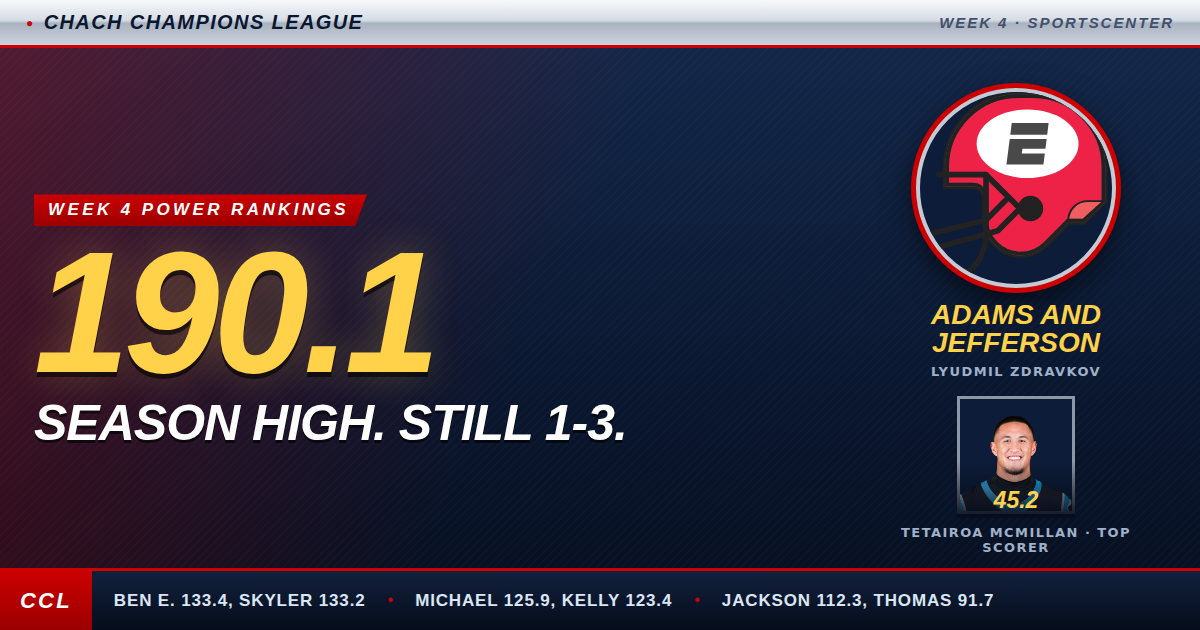
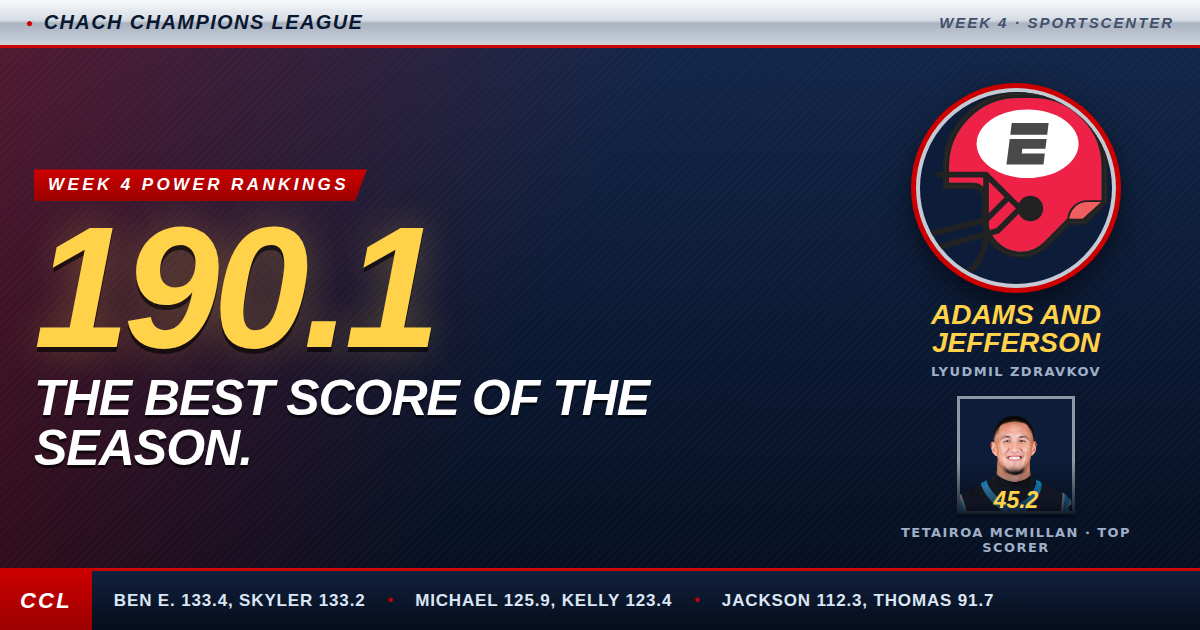
Week 4: deeper analysis

Changed region(s): [[0.0308, 0.2413, 0.555, 0.754]]

diff --git a/docs/weeks/week-4.html b/docs/weeks/week-4.html
@@ -5,18 +5,18 @@
 <meta name="viewport" content="width=device-width, initial-scale=1, viewport-fit=cover" />
 <meta name="theme-name" content="SportsCenter" />
 <title>Week 4: SportsCenter</title>
-<meta name="description" content="The highest score of the season, a game decided by two tenths of a point, and Drake Maye Sucks Ass winning on a big day from Drake Maye." />
+<meta name="description" content="The best score of the season, a clear top three, and the schedule deciding more games than anyone would like." />
 <meta property="og:type" content="article" />
 <meta property="og:site_name" content="Chach Champions League" />
 <meta property="og:url" content="https://scoducks8.github.io/fantasy-power-rankings/weeks/week-4.html" />
 <meta property="og:title" content="Week 4: Adams and Jefferson hang 190" />
-<meta property="og:description" content="The highest score of the season, a game decided by two tenths of a point, and Drake Maye Sucks Ass winning on a big day from Drake Maye." />
+<meta property="og:description" content="The best score of the season, a clear top three, and the schedule deciding more games than anyone would like." />
 <meta property="og:image" content="https://scoducks8.github.io/fantasy-power-rankings/og-week-4.png" />
 <meta property="og:image:width" content="1200" />
 <meta property="og:image:height" content="630" />
 <meta name="twitter:card" content="summary_large_image" />
 <meta name="twitter:title" content="Week 4: Adams and Jefferson hang 190" />
-<meta name="twitter:description" content="The highest score of the season, a game decided by two tenths of a point, and Drake Maye Sucks Ass winning on a big day from Drake Maye." />
+<meta name="twitter:description" content="The best score of the season, a clear top three, and the schedule deciding more games than anyone would like." />
 <meta name="twitter:image" content="https://scoducks8.github.io/fantasy-power-rankings/og-week-4.png" />
 <style>/* ------------------------------------------------------------------
    SKIN: sportscenter — ESPN broadcast graphics, roughly 2003-2008.
@@ -319,7 +319,7 @@ section{scroll-margin-top:64px}
   <div>
     <p class="hk">Week 4 · SportsCenter</p>
     <h1>Adams and Jefferson hang 190 on the league</h1>
-    <p class="hs">Tetairoa McMillan goes for 45.2, Lyudmil puts up 190.06, the biggest number anybody has posted this season, and he is still 1-3. Ben E. survives by two tenths of a point to stay perfect. Team Galakrond scores 140 and loses by fifty. A team called Drake Maye Sucks Ass gets 26.2 out of Drake Maye. And Bingo Night posts the lowest score in the league for the second week in a row. Week 4 had everything.</p>
+    <p class="hs">Four weeks in, the league has a clear top three. Ben E., michael and CeeDeez Nutz are the three highest scorers, all averaging 138 or better, and a combined 106-26 when you line them up against every team every week. Behind them, the schedule is doing a lot of the talking. Team Galakrond has scored enough to be 2-2 and is 0-4 after facing 623 points, by far the most in the league. Bingo Night has scored like a half-win team and is 2-2. And Lyudmil just posted 190.06, the best single week anybody has had this season.</p>
   </div>
   <figure>
     <img src="../assets/players/4685472.png" alt="Tetairoa McMillan" />
@@ -331,7 +331,7 @@ section{scroll-margin-top:64px}
 <div class="wrap">
   <section id="scores">
     <p class="sk">The slate</p><h2>Week 4 results</h2>
-    <p class="sl">Closest game first. Two tenths of a point decided the top one. Gold border means it came down to less than ten.</p>
+    <p class="sl">Closest game first. Ben E. stayed perfect by two tenths of a point. Gold border means it came down to less than ten.</p>
     <div class="strip">
         <div class="res tight">
           <div class="rr "><span>CeeDeez Nutz</span><b>133.2</b></div>
@@ -363,7 +363,7 @@ section{scroll-margin-top:64px}
 
   <section id="teams">
     <p class="sk">Power rankings</p><h2>Every team, ranked</h2>
-    <p class="sl">Four weeks in, and the record now carries the most weight. The color bar under each team splits the week&#x27;s points by position.</p>
+    <p class="sl">Record carries the most weight now, with recent form, scoring and luck behind it. Where a blurb mentions expected wins, that is a team&#x27;s record against the whole league each week, scaled to four games: what its scoring has earned, regardless of schedule. The color bar splits this week&#x27;s points by position.</p>
     <div class="ws">
       <article class="w lead">
         <header>
@@ -378,7 +378,7 @@ section{scroll-margin-top:64px}
         <div class="wmain">
           <figure><img src="../assets/players/4241416.png" alt="" loading="lazy">
             <figcaption><b>25.9</b><span>Chuba Hubbard</span></figcaption></figure>
-          <p>Two tenths of a point. Ben&#x27;s Brilliant Team 133.38, CeeDeez Nutz 133.18, the closest game this league has played all season. Chuba Hubbard leads the way with 25.9 and Brock Bowers adds 20.6 from the tight end spot. Ben E. is 4-0, the only unbeaten team left. That is the good news. The bad news, for everybody else, is that he knows it.</p>
+          <p>The only unbeaten team, and the record holds up. Ben E. is 37-7 against the whole league over four weeks, scoring between 131 and 151 every week. The engine is the receiver room, about 22 points a week above league average, with Jaxon Smith-Njigba at 116.7 on the season. The backfield is the thin spot, about four a week below average. Expected wins are 3.36, so there is a little luck in the 4-0, most visibly this week&#x27;s 0.2 point escape against CeeDeez Nutz. Still a legitimate first-place team.</p>
         </div>
       </article>      <article class="w">
         <header>
@@ -393,7 +393,7 @@ section{scroll-margin-top:64px}
         <div class="wmain">
           <figure><img src="../assets/players/4361370.png" alt="" loading="lazy">
             <figcaption><b>19.6</b><span>Chris Olave</span></figcaption></figure>
-          <p>Ugly, and it counts. michael gets past Team evil by two and a half with 125.92, fifteen under projection. Chris Olave leads the team with 19.6 and nobody on the roster cracks twenty. Still a win. He moves back up to second, and he has more total points than anybody in the league, which he would like you to know.</p>
+          <p>michael leads the league in total points at 574.6 and is 36-8 against the field. Jahmyr Gibbs (116.0 on the season) and Josh Allen (112.5) are the best quarterback and backfield pairing in the league, about 10 a week above average at QB and 19 at RB. Receivers are average and the tight end spot is below it. The real story is the bench: 319.2 points left there across four weeks, about 80 a week and the most in the league by a distance. This week&#x27;s 125.9 was his season low, and he still won.</p>
         </div>
       </article>      <article class="w">
         <header>
@@ -408,7 +408,7 @@ section{scroll-margin-top:64px}
         <div class="wmain">
           <figure><img src="../assets/players/4241389.png" alt="" loading="lazy">
             <figcaption><b>41.3</b><span>CeeDee Lamb</span></figcaption></figure>
-          <p>CeeDee Lamb goes for 41.3 for the team named after him, and it is not enough. Lost by two tenths of a point. Now the part that hurts: 88.7 points sat on the bench. Two tenths. First loss of the season, down a spot to third, and somewhere skyler is still staring at that lineup.</p>
+          <p>The most consistent team in the league: 138.7, 147.3, 133.6, 133.2. CeeDee Lamb went for 41.3, the second-best individual score of the week, and the receiver room runs about 22 a week above average, level with Ben E.&#x27;s for best in the league. The backfield is the weakness, about 14 a week below average. The one loss came by 0.2 with 88.7 points on the bench. Expected wins of 3.00 match the record exactly. This team is right where it should be.</p>
         </div>
       </article>      <article class="w">
         <header>
@@ -423,7 +423,7 @@ section{scroll-margin-top:64px}
         <div class="wmain">
           <figure><img src="../assets/players/4361579.png" alt="" loading="lazy">
             <figcaption><b>31.3</b><span>Javonte Williams</span></figcaption></figure>
-          <p>Back on track. Javonte Williams runs for 31.3, Puka Nacua adds 27.7 out of the flex, and Dake Bates puts 131.38 on Cortisol Spyke Weeks for a 38.4 point win. Second straight win, up two spots to fourth at 3-1. Turns out the opener was not a fluke.</p>
+          <p>The most volatile team in the league: 177.9, 56.5, 96.5, 131.4. Javonte Williams (81.8 on the season) and Ashton Jeanty (73.9) make the backfield about 12 a week above average. Receivers run about 15 below, though Puka Nacua&#x27;s 27.7 this week helps. Dake has also had the gentlest schedule, facing the fewest points in the league at 386.1, which is how a team that is 23-21 against the field gets to 3-1. The 462.2 total points rank seventh.</p>
         </div>
       </article>      <article class="w">
         <header>
@@ -438,7 +438,7 @@ section{scroll-margin-top:64px}
         <div class="wmain">
           <figure><img src="../assets/players/4430807.png" alt="" loading="lazy">
             <figcaption><b>27.7</b><span>Bijan Robinson</span></figcaption></figure>
-          <p>Two receivers, two zeros. Rashee Rice: zero. Jalen Coker: zero. Bijan Robinson does his part with 27.7, but 96.02 is not getting it done, and it hands the roadrunners their first win of the season. Nineteen under projection. Down a spot to fifth at 2-2. Rough Sunday at the Purdy household.</p>
+          <p>A mid-pack team with a clear shape. Bijan Robinson (105.4 on the season) and Brock Purdy (100.5) carry the scoring, and Trey McBride has the tight end spot about seven a week above average. The receivers are the problem, about 15 a week below average, and this week they produced two zeros: Rashee Rice and Jalen Coker. Expected wins of 2.18 match the 2-2 record. Fix the receiver room and this is a top-four team.</p>
         </div>
       </article>      <article class="w">
         <header>
@@ -453,7 +453,7 @@ section{scroll-margin-top:64px}
         <div class="wmain">
           <figure><img src="../assets/players/4685472.png" alt="" loading="lazy">
             <figcaption><b>45.2</b><span>Tetairoa McMillan</span></figcaption></figure>
-          <p>One ninety. Tetairoa McMillan goes for 45.2, the best individual number in the league this week, and Kyren Williams adds 36.7. 190.06 is the highest score anyone has posted this season, 74.6 over projection, eleven and oh against the field. Team Galakrond put up 140 and got buried by fifty. Lyudmil is finally in the win column at 1-3 and jumps three spots. Davante Adams, half the team name, chips in 7.2.</p>
+          <p>190.06. The best single-week score in the league this season, 12.2 clear of Dake&#x27;s week-one 177.86. Tetairoa McMillan&#x27;s 45.2 was the top individual score of the week, Kyren Williams added 36.7, and the receivers and backfield combined for 128.6. Lyudmil is fourth in total points at 521.0 and exactly 22-22 against the field, which usually means two wins, not one. The difference is the schedule: 544.3 points faced, second-most in the league. Quarterback is still unsettled, three different starters in four weeks, with Bryce Young&#x27;s 21.5 this week the best of them. Justin Jefferson was not in the lineup. The power score has noticed all of it and moves this team up three spots.</p>
         </div>
       </article>      <article class="w">
         <header>
@@ -468,7 +468,7 @@ section{scroll-margin-top:64px}
         <div class="wmain">
           <figure><img src="../assets/players/2577417.png" alt="" loading="lazy">
             <figcaption><b>18.1</b><span>Dak Prescott</span></figcaption></figure>
-          <p>Back to earth. 93.0 points, 35.7 under projection, a 38.4 point loss to Dake Bates. Dak Prescott leads the team with 18.1, and that tells you how the afternoon went. Ja&#x27;Marr Chase manages 5.7. The two-game streak is over and Mason slides two spots to seventh at 2-2.</p>
+          <p>Up five spots last week, back down two this week. Derrick Henry (90.8 on the season) and Dak Prescott (81.2) carry the scoring, and the team sits right around league average at quarterback and running back. Receivers run about six a week below average, and Ja&#x27;Marr Chase has been streaky: 3.2, 26.5, 24.8, 5.7. At 15-29 against the field, expected wins are 1.36, so 2-2 is running slightly ahead of the scoring. Another 276.3 points have been left on the bench, second-most in the league.</p>
         </div>
       </article>      <article class="w">
         <header>
@@ -483,7 +483,7 @@ section{scroll-margin-top:64px}
         <div class="wmain">
           <figure><img src="../assets/players/4431452.png" alt="" loading="lazy">
             <figcaption><b>26.2</b><span>Drake Maye</span></figcaption></figure>
-          <p>Plot twist. The team called Drake Maye Sucks Ass starts Drake Maye, and Drake Maye goes for 26.2, the best quarterback score in the league this week. Sam LaPorta adds 22.4, best at tight end. Jackson beats Bingo Night 112.26 to 91.72 and climbs two spots to eighth. The team name stays. Of course it stays.</p>
+          <p>The league&#x27;s most predictable middle team, landing between 94.8 and 114.9 every week. Drake Maye&#x27;s 26.2 was the best quarterback score in the league this week, after 9.8, 8.0 and 3.8 to start the year. Amon-Ra St. Brown (91.3 on the season) and Sam LaPorta keep receiver and tight end above average. The backfield runs about 10 a week below. Expected wins of 1.55 say 2-2 is a little ahead of the scoring.</p>
         </div>
       </article>      <article class="w">
         <header>
@@ -498,7 +498,7 @@ section{scroll-margin-top:64px}
         <div class="wmain">
           <figure><img src="../assets/players/4239993.png" alt="" loading="lazy">
             <figcaption><b>26.7</b><span>Tee Higgins</span></figcaption></figure>
-          <p>So close, again. Tee Higgins goes for 26.7, Joe Burrow throws in 23.7, and Team evil loses to michael by two and a half. The Jets defense: zero. That is your ballgame. It is the second time this season kelly has lost by less than three. 1-3, down a spot to ninth.</p>
+          <p>Steady, between 102 and 124 every week, and very unlucky in close ones: a 0.4 point loss in week two and a 2.5 point loss this week. kelly has also faced 511.1 points, fourth-most in the league. Joe Burrow, Christian McCaffrey and Tee Higgins have each scored between 71 and 77 on the season, which is depth without a true star. The defense has finished at zero in three of four weeks.</p>
         </div>
       </article>      <article class="w">
         <header>
@@ -513,7 +513,7 @@ section{scroll-margin-top:64px}
         <div class="wmain">
           <figure><img src="../assets/players/4258173.png" alt="" loading="lazy">
             <figcaption><b>30.8</b><span>Nico Collins</span></figcaption></figure>
-          <p>Finally. Nico Collins goes for 30.8, Malik Nabers adds 23.2, and the roadrunners get on the board, 118.08 to 96.02 over Purdy Seconds to Mars. And Colston Loveland, who opened the season with a zero, catches some footballs. 11.7. Up two spots to tenth. One and three never felt this good.</p>
+          <p>Finally on the board. This week&#x27;s 118.1 was a season high, built on Nico Collins (30.8) and Malik Nabers (23.2). The season numbers are still rough: at or below average at every position, and 11-33 against the field, second-worst in the league. Expected wins of 1.00 match the record. This week&#x27;s receiver output is the template, if it can be repeated.</p>
         </div>
       </article>      <article class="w">
         <header>
@@ -528,7 +528,7 @@ section{scroll-margin-top:64px}
         <div class="wmain">
           <figure><img src="../assets/players/4567048.png" alt="" loading="lazy">
             <figcaption><b>30.9</b><span>Kenneth Walker III</span></figcaption></figure>
-          <p>You cannot make this up. 140.28 points, the second-best score in the league this week, ten and one against the field, and Neil loses by fifty because the team across from him put up the highest score of the season. Kenneth Walker runs for 30.9 and the backfield goes for 75.2, best in the league. 0-4. Sixth in total points. Somebody check on Neil.</p>
+          <p>The unluckiest team in the league, and it is not close. Neil has faced 623.1 points, 78.8 more than anyone else. The 22-22 record against the field says two wins, and the standings say zero. Kenneth Walker (110.1 on the season) and Jonathan Taylor (86.2) make this the best backfield in the league, about 26 a week above average. The receivers are the league&#x27;s worst, about 18 a week below, and quarterback is the lowest in the league too. This week he scored 140.28, second-best in the league, and ran into the season high.</p>
         </div>
       </article>      <article class="w">
         <header>
@@ -543,7 +543,7 @@ section{scroll-margin-top:64px}
         <div class="wmain">
           <figure><img src="../assets/players/4569173.png" alt="" loading="lazy">
             <figcaption><b>18.4</b><span>Rhamondre Stevenson</span></figcaption></figure>
-          <p>Lowest score in the league for the second straight week, and zero for eleven against the field for the second straight week. 91.72, a 20.5 point loss to Drake Maye Sucks Ass. Rhamondre Stevenson leads the team with 18.4. Travis Kelce: 3.5. Saquon Barkley: 2.0. Fewest points in the league on the season. Bingo Night is still 2-2, but the power rankings have seen enough. Down five spots to twelfth.</p>
+          <p>The other side of the luck ledger. At 6-38 against the field, Bingo Night&#x27;s scoring is worth about half a win, and the record shows two. Fewest points in the league at 368.7, and the lowest score of the week two weeks running. The backfield is the biggest hole, about 18 a week below average, with Saquon Barkley at 9.0, 3.0, 9.0 and 2.0. The record is fine for now. The power rankings have stopped giving credit for it.</p>
         </div>
       </article>
     </div>
@@ -551,7 +551,7 @@ section{scroll-margin-top:64px}
 
   <section id="positions">
     <p class="sk">Where the points came from</p><h2>Scoring by position</h2>
-    <p class="sl">Long orange bar, the backfield showed up. Long green, the receivers. Find Team Galakrond&#x27;s backfield, then look at the rest of that row.</p>
+    <p class="sl">This week&#x27;s points by position. Look at Team Galakrond&#x27;s backfield, then at the rest of that row. Ben E. and CeeDeez Nutz have the best receiver rooms in the league over four weeks, each about 22 points a week above average.</p>
     <div class="chart"><div class="lg"><span><i style="background:#3987e5"></i>QB</span><span><i style="background:#d95926"></i>RB</span><span><i style="background:#199e70"></i>WR</span><span><i style="background:#c98500"></i>TE</span><span><i style="background:#d55181"></i>K</span><span><i style="background:#9085e9"></i>D/ST</span></div><div class="prow"><div class="plbl">Lyudmil</div><div class="ptrack"><span style="width:11.29%;background:#3987e5"></span><span style="width:28.78%;background:#d95926"></span><span style="width:38.88%;background:#199e70"></span><span style="width:8.94%;background:#c98500"></span><span style="width:8.42%;background:#d55181"></span><span style="width:3.68%;background:#9085e9"></span></div><div class="pval">190.1</div></div><div class="prow"><div class="plbl">Neil</div><div class="ptrack"><span style="width:6.04%;background:#3987e5"></span><span style="width:39.57%;background:#d95926"></span><span style="width:8.37%;background:#199e70"></span><span style="width:7.21%;background:#c98500"></span><span style="width:10.00%;background:#d55181"></span><span style="width:2.63%;background:#9085e9"></span></div><div class="pval">140.3</div></div><div class="prow"><div class="plbl">Ben E.</div><div class="ptrack"><span style="width:12.14%;background:#3987e5"></span><span style="width:17.52%;background:#d95926"></span><span style="width:21.26%;background:#199e70"></span><span style="width:10.84%;background:#c98500"></span><span style="width:3.16%;background:#d55181"></span><span style="width:5.26%;background:#9085e9"></span></div><div class="pval">133.4</div></div><div class="prow"><div class="plbl">skyler</div><div class="ptrack"><span style="width:9.93%;background:#3987e5"></span><span style="width:13.73%;background:#d95926"></span><span style="width:30.57%;background:#199e70"></span><span style="width:4.79%;background:#c98500"></span><span style="width:5.79%;background:#d55181"></span><span style="width:5.26%;background:#9085e9"></span></div><div class="pval">133.2</div></div><div class="prow"><div class="plbl">Jake</div><div class="ptrack"><span style="width:6.88%;background:#3987e5"></span><span style="width:26.25%;background:#d95926"></span><span style="width:20.47%;background:#199e70"></span><span style="width:8.68%;background:#c98500"></span><span style="width:4.21%;background:#d55181"></span><span style="width:2.63%;background:#9085e9"></span></div><div class="pval">131.4</div></div><div class="prow"><div class="plbl">michael</div><div class="ptrack"><span style="width:9.74%;background:#3987e5"></span><span style="width:21.36%;background:#d95926"></span><span style="width:18.99%;background:#199e70"></span><span style="width:6.16%;background:#c98500"></span><span style="width:5.26%;background:#d55181"></span><span style="width:4.74%;background:#9085e9"></span></div><div class="pval">125.9</div></div><div class="prow"><div class="plbl">kelly</div><div class="ptrack"><span style="width:12.48%;background:#3987e5"></span><span style="width:15.42%;background:#d95926"></span><span style="width:25.15%;background:#199e70"></span><span style="width:3.47%;background:#c98500"></span><span style="width:8.42%;background:#d55181"></span></div><div class="pval">123.4</div></div><div class="prow"><div class="plbl">Ricky</div><div class="ptrack"><span style="width:6.88%;background:#3987e5"></span><span style="width:10.84%;background:#d95926"></span><span style="width:34.57%;background:#199e70"></span><span style="width:6.16%;background:#c98500"></span><span style="width:3.16%;background:#d55181"></span><span style="width:0.53%;background:#9085e9"></span></div><div class="pval">118.1</div></div><div class="prow"><div class="plbl">Jackson</div><div class="ptrack"><span style="width:13.76%;background:#3987e5"></span><span style="width:8.00%;background:#d95926"></span><span style="width:21.84%;background:#199e70"></span><span style="width:11.79%;background:#c98500"></span><span style="width:2.63%;background:#d55181"></span><span style="width:1.05%;background:#9085e9"></span></div><div class="pval">112.3</div></div><div class="prow"><div class="plbl">Ben T.</div><div class="ptrack"><span style="width:10.32%;background:#3987e5"></span><span style="width:18.57%;background:#d95926"></span><span style="width:9.47%;background:#199e70"></span><span style="width:5.31%;background:#c98500"></span><span style="width:2.63%;background:#d55181"></span><span style="width:4.21%;background:#9085e9"></span></div><div class="pval">96.0</div></div><div class="prow"><div class="plbl">Mason</div><div class="ptrack"><span style="width:9.52%;background:#3987e5"></span><span style="width:16.57%;background:#d95926"></span><span style="width:10.42%;background:#199e70"></span><span style="width:7.16%;background:#c98500"></span><span style="width:1.58%;background:#d55181"></span><span style="width:3.68%;background:#9085e9"></span></div><div class="pval">93.0</div></div><div class="prow"><div class="plbl">Thomas</div><div class="ptrack"><span style="width:7.11%;background:#3987e5"></span><span style="width:10.73%;background:#d95926"></span><span style="width:17.52%;background:#199e70"></span><span style="width:1.84%;background:#c98500"></span><span style="width:4.74%;background:#d55181"></span><span style="width:6.31%;background:#9085e9"></span></div><div class="pval">91.7</div></div></div>
   </section>
 
